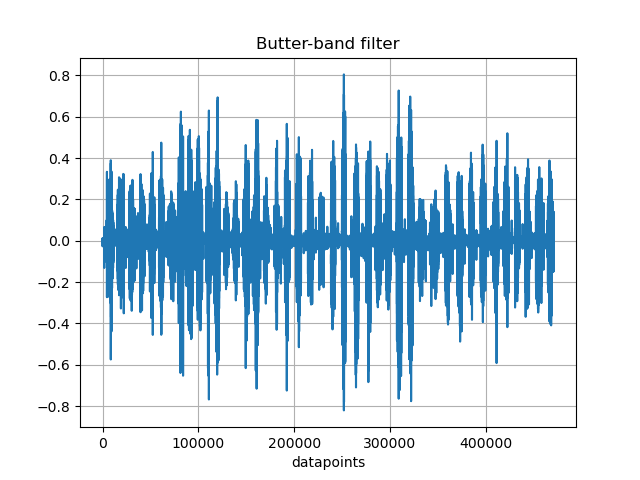
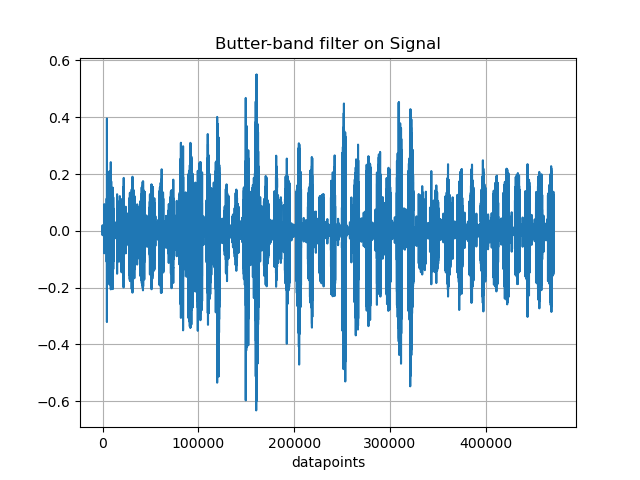
added frequency spectrums to 4_7

diff --git a/src/4_7.py b/src/4_7.py
@@ -42,16 +42,20 @@ def highpass(lowcut, fs, order=5):
 
  # Sample rate and desired cutoff frequencies (in Hz).
 fs = 50
-lowcut = 3
-highcut = 12
+lowcut = 2
+highcut = 5
 order = 4
+
 
 original_signal = np.zeros(470528)
 for index, row in raw_labeled_data.iterrows():
     eff = index * 64
     original_signal[eff:eff + 64] = row.values[:-1]
 
-plt.figure(1)
+n = len(original_signal)
+dt = 1/fs
+
+fig1 = plt.figure()
 plt.clf()
 
 # Plot butter-band-filter.
@@ -59,27 +63,55 @@ b, a = butter_bandpass(lowcut, highcut, fs, order=order)
 y = lfilter(b, a , original_signal)
 plt.plot(y)
 plt.xlabel('datapoints')
-plt.title('Butter-band filter')
+plt.title('Butter-band filter on Signal')
 plt.grid(True)
 plt.axis('tight')
 
-plt.figure(2)
+fft = np.fft.fft(y - np.mean(y))
+freq = np.linspace(0, 1 / (2 * dt), n // 2)
+
+ax = plt.figure().add_subplot(111)
+ax.plot(freq, 2 / n * np.abs(fft[:n // 2]))
+ax.title.set_text('4.7 Frequency spectrum of Butter-band filter')
+ax.set_xlabel('Frequency')
+ax.set_ylabel('Amplitude')
+#plt.savefig(wd[:-4] + '/img/4_6_' + CLASSES[i + 1] + '.png')
+
+fig2 = plt.figure()
 # Plot lowpass-filter.
 b, a = lowpass(highcut, fs, order=order)
 y = lfilter(b, a , original_signal)
 plt.plot(y)
 plt.xlabel('datapoints')
-plt.title('Lowpass filter')
+plt.title('Lowpass filter on Signal')
 plt.grid(True)
 plt.axis('tight')
 
-plt.figure(3)
+fft = np.fft.fft(y - np.mean(y))
+freq = np.linspace(0, 1 / (2 * dt), n // 2)
+
+ax = plt.figure().add_subplot(111)
+ax.plot(freq, 2 / n * np.abs(fft[:n // 2]))
+ax.title.set_text('4.7 Frequency spectrum of Lowpass filter')
+ax.set_xlabel('Frequency')
+ax.set_ylabel('Amplitude')
+
+fig3 = plt.figure()
 # Plot highpass-filter.
 b, a = highpass(lowcut, fs, order=order)
 y = lfilter(b, a , original_signal)
 plt.plot(y)
 plt.xlabel('datapoints')
-plt.title('Highpass filter')
+plt.title('Highpass filter on Signal')
 plt.grid(True)
 plt.axis('tight')
+
+fft = np.fft.fft(y - np.mean(y))
+freq = np.linspace(0, 1 / (2 * dt), n // 2)
+
+ax = plt.figure().add_subplot(111)
+ax.plot(freq, 2 / n * np.abs(fft[:n // 2]))
+ax.title.set_text('4.7 Frequency spectrum of Highpass filter')
+ax.set_xlabel('Frequency')
+ax.set_ylabel('Amplitude')
 plt.show()
